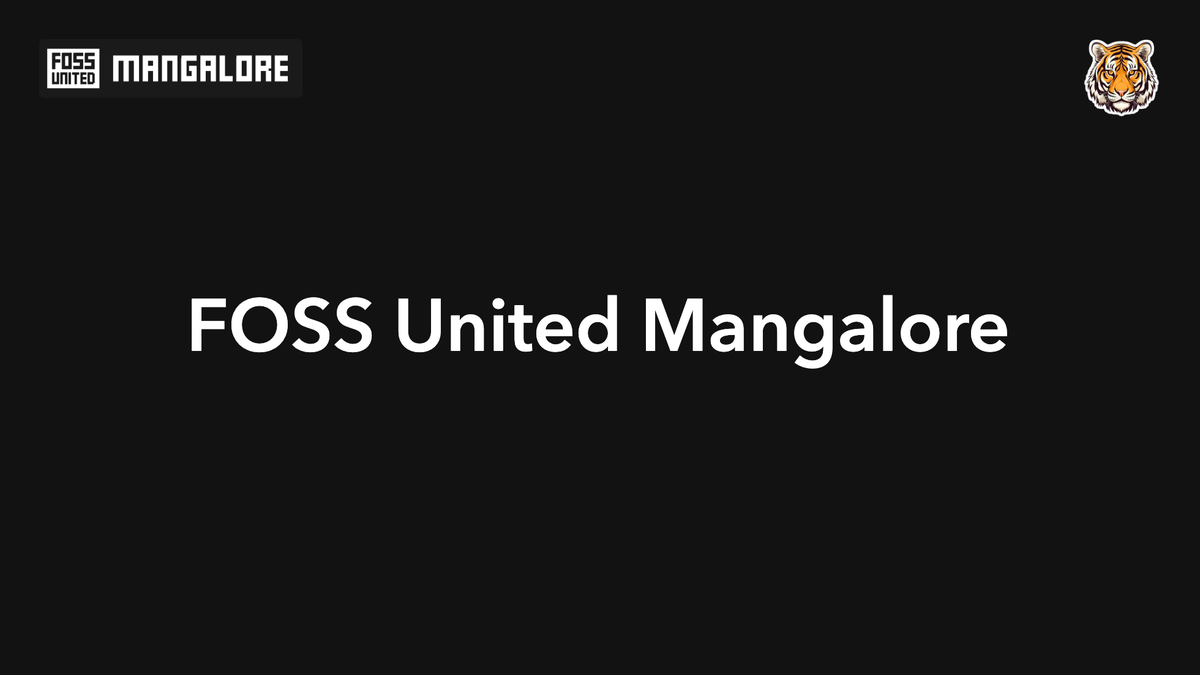
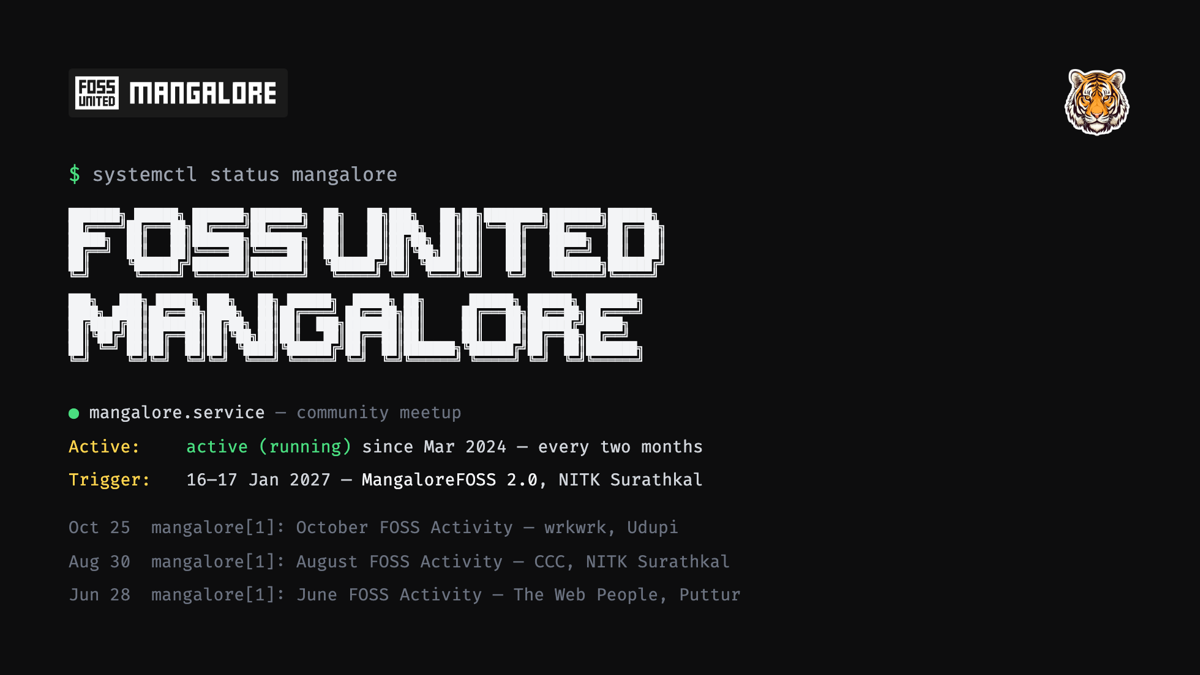
feat: update first slide

diff --git a/global-bottom.vue b/global-bottom.vue
@@ -1,7 +1,7 @@
 <template>
   <footer
     v-if="$nav.currentLayout !== 'cover'"
-    class="abs-br text-gray-200 m-8"
+    class="abs-br text-gray-200 mr-14 mb-14"
   >
     <div class="gap-4 flex justify-end items-center">
       <img src="/assets/fu-mangalore.png" alt="FOSS United Mangalore Logo" class="h-8" />

diff --git a/slides.md b/slides.md
@@ -1,47 +1,69 @@
 ---
-# try also 'default' to start simple
 theme: default
-# random image from a curated Unsplash collection by Anthony
-# like them? see https://unsplash.com/collections/94734566/slidev
-# some information about your slides (markdown enabled)
 title: FOSS United Mangalore
 info: |
   ## FOSS United Mangalore
-  Presentation slides for FOSS United Mangalore.
 
-  Learn more at [FOSS United Mangalore](https://fossunited.org/c/mangalore)
+  The Mangalore chapter of FOSS United — who we are, what we run, and how to
+  join. Meetups every two months, hosted in industry offices across Udupi and
+  Mangalore, plus MangaloreFOSS, our annual conference.
+
+  [fossunited.org/c/mangalore](https://fossunited.org/c/mangalore)
 author: Deveesh Shetty
-keywords: foss,open source,fossunited,mangalore,mangalorefoss,foss hack,community
+keywords: foss united,fossunited mangalore,mangalorefoss,foss hack,open source,community,meetup,mangalore,udupi,karnataka,india,nitk surathkal
 seoMeta:
   ogTitle: FOSS United Mangalore
-  ogDescription: What the Mangalore chapter does — meetups, college outreach, FOSS Hack, and MangaloreFOSS.
+  ogDescription: A free and open source software community in coastal Karnataka. Meetups every two months, and MangaloreFOSS each January.
   ogImage: https://slides.shetty.me/foss-mangalore-intro/og-image.png
   ogUrl: https://slides.shetty.me/foss-mangalore-intro/
   twitterCard: summary_large_image
+  twitterSite: "@ShettyDeveesh"
   twitterTitle: FOSS United Mangalore
-  twitterDescription: What the Mangalore chapter does — meetups, college outreach, FOSS Hack, and MangaloreFOSS.
+  twitterDescription: A free and open source software community in coastal Karnataka. Meetups every two months, and MangaloreFOSS each January.
   twitterImage: https://slides.shetty.me/foss-mangalore-intro/og-image.png
-# apply UnoCSS classes to the current slide
-class: text-center
-# https://sli.dev/features/drawing
+class: text-center bg-[#0d0d0e] text-gray-200
 drawings:
   persist: false
-# slide transition: https://sli.dev/guide/animations.html#slide-transitions
 transition: view-transition
-# enable MDC Syntax: https://sli.dev/features/mdc
 mdc: true
-# duration of the presentation
 duration: 10min
 ---
 
-# <span class="font-semibold"><span view-transition-name="fu">FOSS United</span> Mangalore</span>
-
-<div class="abs-tl m-8 gap-4 flex justify-end items-center">
-  <img src="/assets/fu-mangalore.png" alt="FOSS United Mangalore Logo" class="h-12" />
+<div class="h-full flex flex-col justify-start pt-20 text-left">
+  <div class="font-mono text-base text-gray-400"><span class="text-green-400">$</span> systemctl status mangalore</div>
+<pre class="font-mono text-[0.62rem] leading-[1.0] m-0 mt-4 mb-6 text-gray-100">███████╗ ██████╗ ███████╗███████╗  ██╗   ██╗███╗   ██╗██╗████████╗███████╗██████╗ 
+██╔════╝██╔═══██╗██╔════╝██╔════╝  ██║   ██║████╗  ██║██║╚══██╔══╝██╔════╝██╔══██╗
+█████╗  ██║   ██║███████╗███████╗  ██║   ██║██╔██╗ ██║██║   ██║   █████╗  ██║  ██║
+██╔══╝  ██║   ██║╚════██║╚════██║  ██║   ██║██║╚██╗██║██║   ██║   ██╔══╝  ██║  ██║
+██║     ╚██████╔╝███████║███████║  ╚██████╔╝██║ ╚████║██║   ██║   ███████╗██████╔╝
+╚═╝      ╚═════╝ ╚══════╝╚══════╝   ╚═════╝ ╚═╝  ╚═══╝╚═╝   ╚═╝   ╚══════╝╚═════╝ 
+ 
+███╗   ███╗ █████╗ ███╗   ██╗ ██████╗  █████╗ ██╗      ██████╗ ██████╗ ███████╗
+████╗ ████║██╔══██╗████╗  ██║██╔════╝ ██╔══██╗██║     ██╔═══██╗██╔══██╗██╔════╝
+██╔████╔██║███████║██╔██╗ ██║██║  ███╗███████║██║     ██║   ██║██████╔╝█████╗  
+██║╚██╔╝██║██╔══██║██║╚██╗██║██║   ██║██╔══██║██║     ██║   ██║██╔══██╗██╔══╝  
+██║ ╚═╝ ██║██║  ██║██║ ╚████║╚██████╔╝██║  ██║███████╗╚██████╔╝██║  ██║███████╗
+╚═╝     ╚═╝╚═╝  ╚═╝╚═╝  ╚═══╝ ╚═════╝ ╚═╝  ╚═╝╚══════╝ ╚═════╝ ╚═╝  ╚═╝╚══════╝</pre>
+  <div class="font-mono text-[0.88rem] leading-[1.95] text-gray-300">
+    <div><span class="text-green-400">●</span> mangalore.service <span class="text-gray-500">— community meetup</span></div>
+    <div class="grid grid-cols-[6rem_1fr]">
+      <span class="text-amber-300">Active:</span><span><span class="text-green-400">active (running)</span> since Mar 2024 — every two months</span>
+      <span class="text-amber-300">Trigger:</span><span>16–17 Jan 2027 — <span class="text-gray-100">MangaloreFOSS 2.0</span>, NITK Surathkal</span>
+    </div>
+    <div class="text-gray-500 mt-3">
+      <div>Oct 25&nbsp; mangalore[1]: October FOSS Activity — wrkwrk, Udupi</div>
+      <div>Aug 30&nbsp; mangalore[1]: August FOSS Activity — CCC, NITK Surathkal</div>
+      <div>Jun 28&nbsp; mangalore[1]: June FOSS Activity — The Web People, Puttur</div>
+    </div>
+  </div>
 </div>
 
-<div class="abs-tr m-8 gap-4 flex justify-end items-center">
-  <img src="/assets/tiger.png" alt="Tiger Mascot" class="h-16" />
+<div class="abs-tl ml-14 mt-14 flex items-center">
+  <img src="/assets/fu-mangalore.png" alt="FOSS United Mangalore Logo" class="h-10" />
+</div>
+
+<div class="abs-tr mr-14 mt-14 flex items-center">
+  <img src="/assets/tiger.png" alt="Tiger Mascot" class="h-14" />
 </div>
 
 ---
